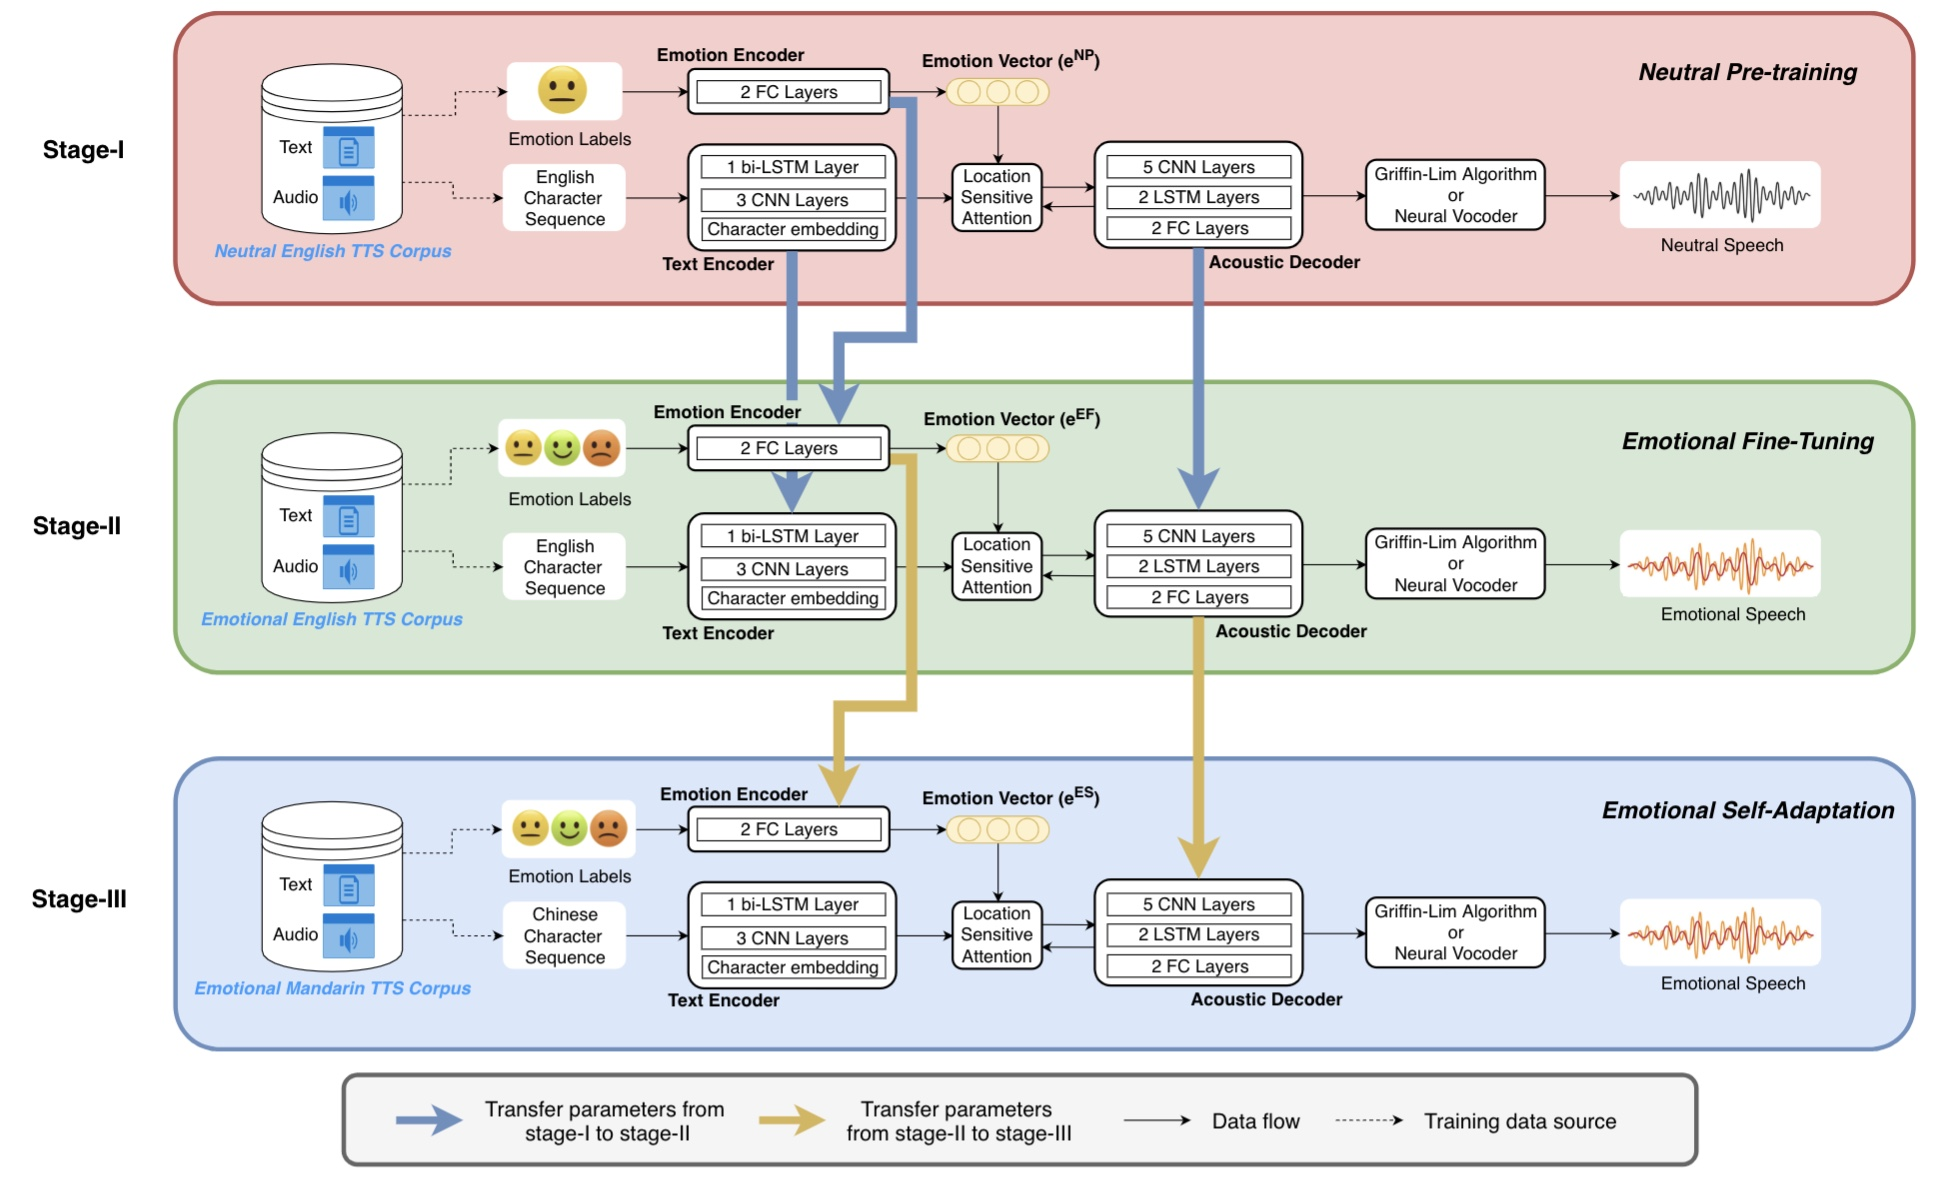
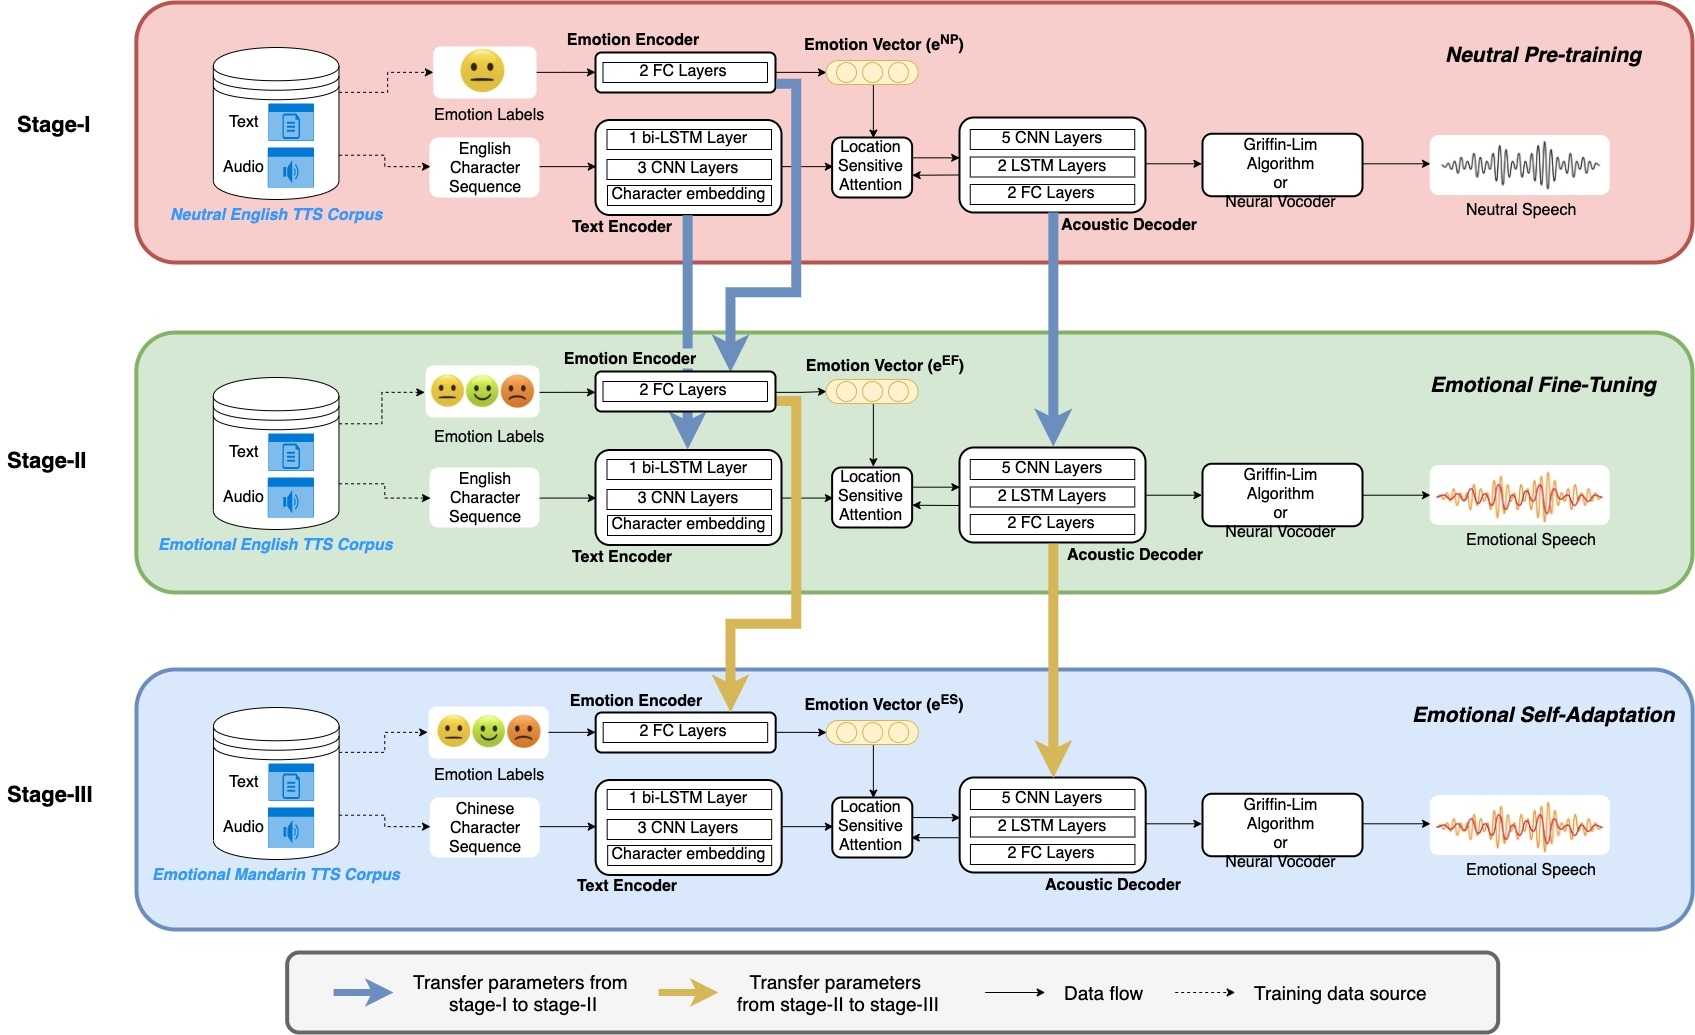
update

Changed region(s): [[0.0, 0.0, 1.0, 1.0]]

diff --git a/index.html b/index.html
@@ -65,8 +65,8 @@
 <h4>Abstract</h4>
 The recent advances in neural Text-to-Speech (TTS) have made ``human parity'' synthesized speech possible when a large amount of training corpus is available. Furthermore, emotion control can be achieved by using the emotional codes in an unified model, referred to as emotional TTS. However, owing to the limitation of annotated emotional training corpus, emotional TTS systems tend to have lower performance. To address this problem, we present a multi-stage cross-lingual transfer learning scheme, whereby we first pre-train an end-to-end TTS model using an English standard TTS corpus. The resulting  model is then initialized via the parameters of the pre-trained TTS model, and fine-tuned on the basis of an English emotional TTS corpus. Finally, a small Mandarin emotional TTS corpus is utilized to do self-adaptation. With such a learning process, the proposed Mandarin emotional TTS model can project high-quality emotional speech under the limited emotional corpus, which is able to serve for the uses of various real-time smart Internet of Things-enabled applications. Experiments have been conducted to demonstrate the effectiveness and superiority  of the proposed method as comparison to all counterparts in terms of naturalness and emotional expressiveness. We refer readers to visit our demo webpage and enjoy the synthesized speech samples.
 <br><br><br>
-                    <img src="./audio/model.jpg"  width="1050" height="720" / >
-                    <br>Block diagram of the proposed training scheme, multi-stage cross-lingual transfer learning. Stage-I means the Neutral Pre-training (NP) stage, which train the basic emotional TTS model using the English TTS corpus with neutral emotion. Stage-II means the Emotional Fine-Tuning (EF) stage, which fine-tuning the pre-trained emotional TTS model using the English TTS corpus with three emotions (neural, happy and sad). We transfer the parameters of text encoder, emotion encoder and acoustic decoder form Stage-I to Stage-II.
+                    <img src="./audio/model.png"  width="1050" height="720" / >
+                    <br>Fig.1: Block diagram of the proposed training scheme, multi-stage cross-lingual transfer learning. Stage-I means the Neutral Pre-training (NP) stage, which train the basic emotional TTS model using the English TTS corpus with neutral emotion. Stage-II means the Emotional Fine-Tuning (EF) stage, which fine-tuning the pre-trained emotional TTS model using the English TTS corpus with three emotions (neural, happy and sad). We transfer the parameters of text encoder, emotion encoder and acoustic decoder form Stage-I to Stage-II.
 Stage-III means the Emotional Self-Adaptation (ES) stage, which train the fine-tuned emotional TTS model using the small Mandarin TTS corpus with three emotions (neural, happy and sad). We transfer the parameters of emotion encoder and acoustic decoder form Stage-II to Stage-III. e^ES represents the trained emotion vector in Stage-III.
                     
                    
